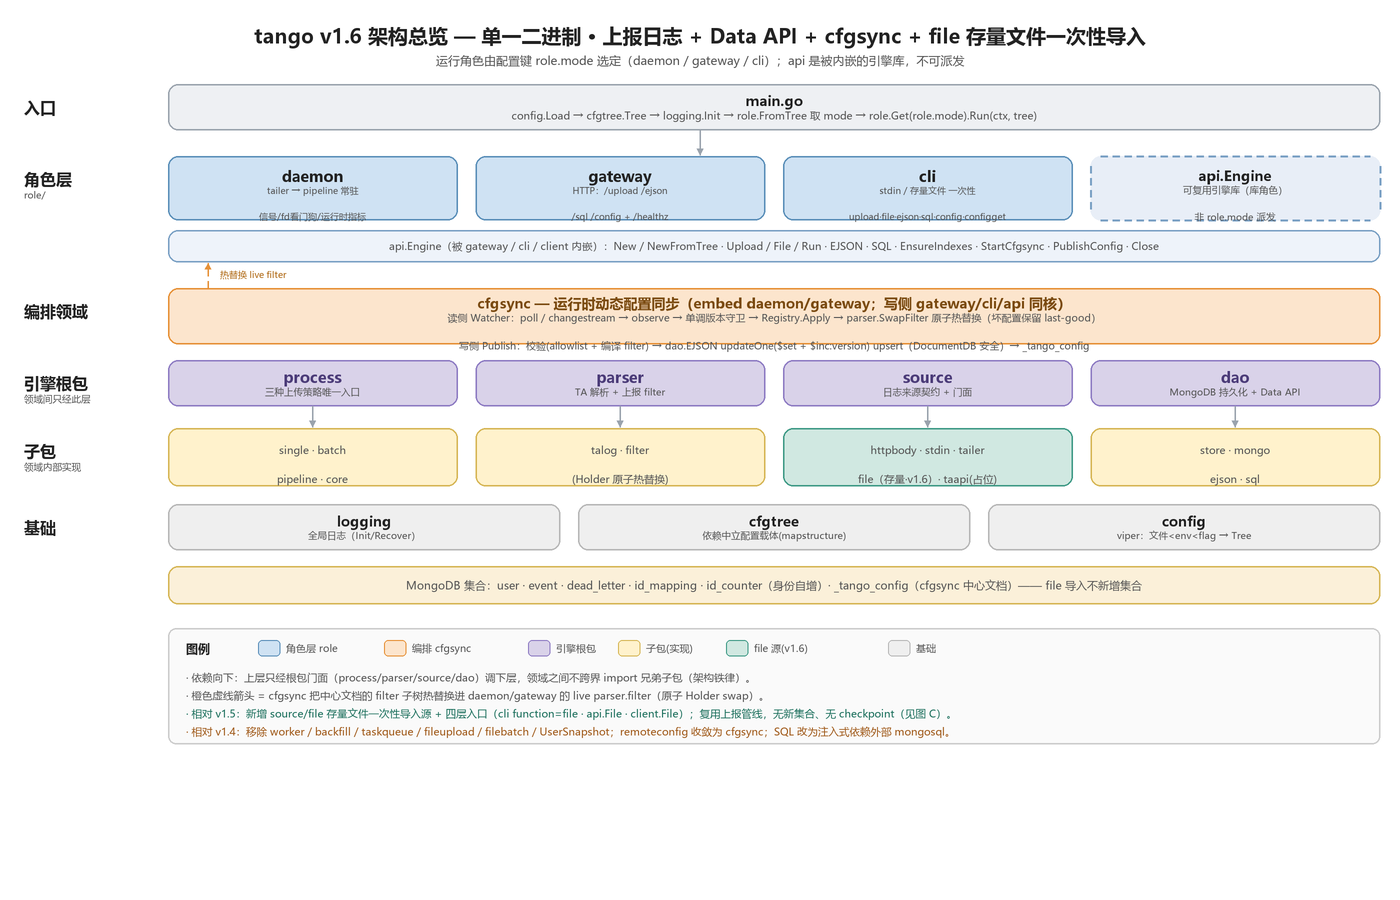
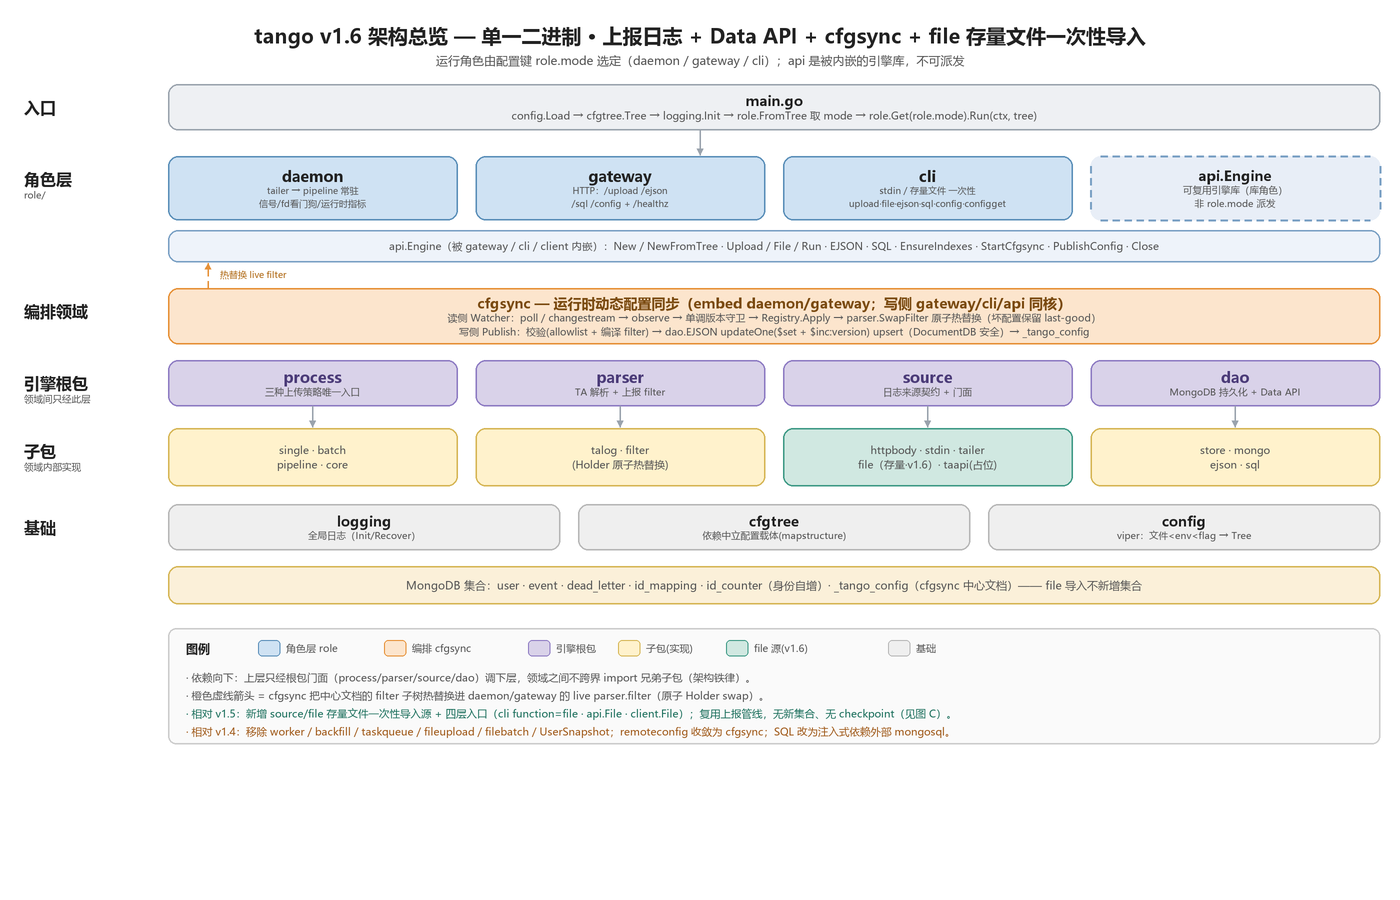
docs(v1.6): fix box() line-spacing overflow in make_diagrams.py + regenerate diagrams
The box() vertical-centering passed line advance s(spx+4) (double supersample), making
the rendered subs block ~2x taller than the (th+sh) budget, so the last sub-line of
many-sub boxes spilled below the bottom border (upload-flow Source/core.Processor,
file-flow source.NewFile, cfgsync _tango_config). Use (spx+4) so text fits at existing
heights. Regenerated overview/upload-flow/cfgsync-flow/file-flow PNGs (all probed clean).
Also gitignore __pycache__ (parity with v1.7).

diff --git a/doc/v1.6/make_diagrams.py b/doc/v1.6/make_diagrams.py
@@ -88,7 +88,11 @@ def box(d, x, y, w, h, colors, title=None, subs=None,
         tw = bb[2] - bb[0]
         d.text((s(cx) - tw // 2, s(cy)), title, font=font(tpx, bold=True), fill=title_color)
         cy += th
-    _wrap_center(d, cx, cy, subs, font(spx), SUBINK, s(spx + 4))
+    # Line advance is (spx+4) in the same logical units as cy/sh — NOT s(spx+4),
+    # which double-applied the supersample factor and made the rendered subs block
+    # ~2x taller than the budget (th+sh) used for vertical centering, spilling the
+    # last sub-line of boxes with many subs below the bottom border.
+    _wrap_center(d, cx, cy, subs, font(spx), SUBINK, spx + 4)
 
 
 def _dashed_rrect(d, xy, r, color, width, dash, gap):
